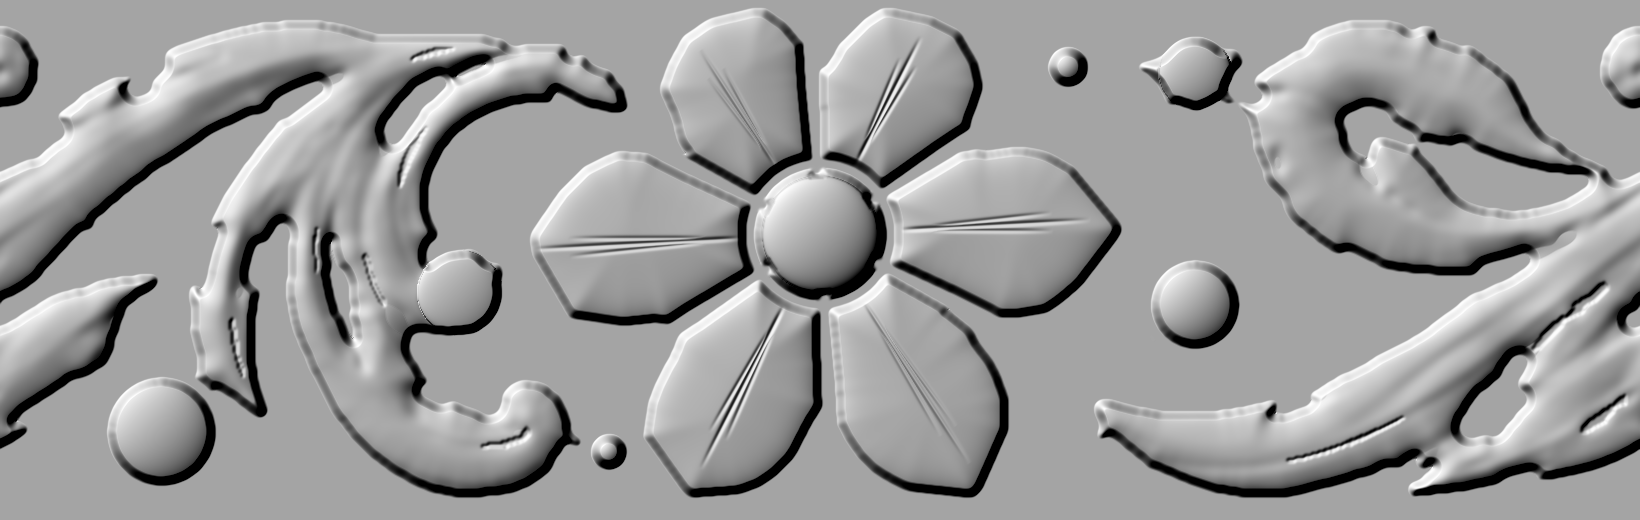
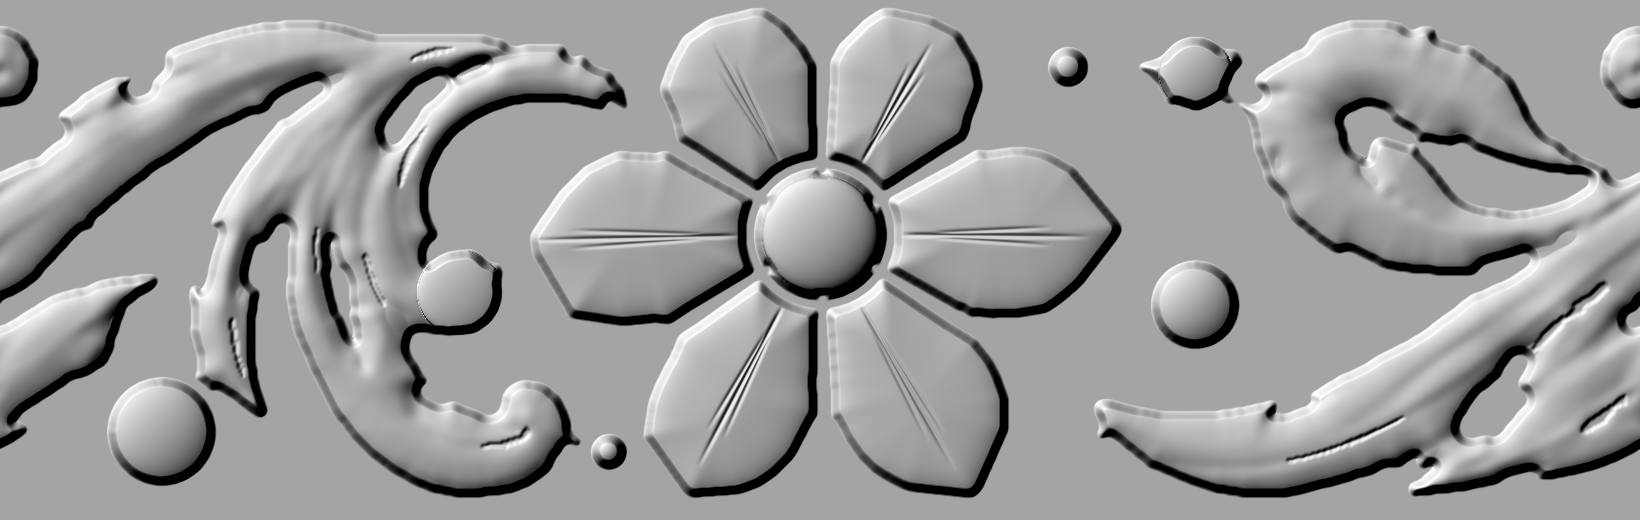
v2 step 13: petal gaps use MEASURED ref gap angles (31.8,88.7,146.8,210.8,271.0,329.3; ref flower is not 60-deg regular), axes = gap midpoints, per-petal sector half-width; gap re-cut radius GR1 300->250 (no slit in scroll tip); diff_v2.py HI 170->150 (ref top petals are duller mid-tone gold). Flowe

diff --git a/tools/v2/make_map_v2.py b/tools/v2/make_map_v2.py
@@ -35,7 +35,8 @@ opn = ndi.binary_opening(tri(~B), structure=disc)[:, TW:2 * TW]
 thin = ~B & ~opn
 B = B | (thin & (ndi.distance_transform_edt(~tri(B))[:, TW:2 * TW] <= E('GN', 2.5)))
 # D-v2 s74 petal slit fill: the mask subtracted dark ref slits that are really petal ribs (not petal gaps). Inside the flower disc, close B within +-FW deg of each petal axis (gaps lie midway between axes, untouched).
-FCX, FCY = 407 * TW / P, 116 * TW / P; FAX = [357, 57, 117, 177, 237, 297]; FW = E('FW', 14)
+FCX, FCY = 407 * TW / P, 116 * TW / P; # s80: MEASURED petal gap angles in the new ref (valley centroid of ref brightness about the flower centre, r80..180 median; deg, 0=+x, y down): the ref flower is NOT 60-deg regular (spacings 56.9..64). Axes = midpoints of neighbouring gaps, FHW = half sector widths.
+FGAP = [31.8, 88.7, 146.8, 210.8, 271.0, 329.3]; FAX = [(FGAP[i] + FGAP[(i + 1) % 6] + (360 if i == 5 else 0)) / 2 % 360 for i in range(6)]; FHW = [((FGAP[(i + 1) % 6] + (360 if i == 5 else 0)) - FGAP[i]) / 2 for i in range(6)]; FW = E('FW', 14)
 _a = (np.degrees(np.arctan2(np.mgrid[:TH, :TW][0] - FCY, np.mgrid[:TH, :TW][1] - FCX)) % 360); _r = np.hypot(np.mgrid[:TH, :TW][0] - FCY, np.mgrid[:TH, :TW][1] - FCX)
 _ax = np.zeros(B.shape, bool)
 for _t in FAX: _ax |= (np.abs((_a - _t + 180) % 360 - 180) <= FW)
@@ -47,8 +48,8 @@ RB, GAPH = E('RB', 74), E('GAPH', 1.5)
 GW0, GS, RF = E('GW0', 3.5), E('GS', .04), E('RF', 150)
 _dB = ndi.distance_transform_edt(~B); _sm = np.clip((_r - E('FR0', 110)) / (E('FR1', 210) - E('FR0', 110)), 0, 1); _e = E('FEXP', 14) * (1 - _sm * _sm * (3 - 2 * _sm))   # fill may grow a petal by <= _e px, fading out with r (no hard step)
 _gwr = GW0 + GS * (np.clip(_r, RB, RF) - RB)   # s77 gap half-width (px): narrow at the bead, widening outward (ref gaps are thin dark lines, petal sides straight along them)
-for _t in FAX:
-    _d = np.abs((_a - _t + 180) % 360 - 180); _sec = (_d <= 30) & (_r > RB) & (_r < 340) & (_r * np.sin(np.radians(np.clip(30 - _d, 0, 90))) >= _gwr)
+for _t, _hw in zip(FAX, FHW):
+    _d = np.abs((_a - _t + 180) % 360 - 180); _sec = (_d <= _hw) & (_r > RB) & (_r < 340) & (_r * np.sin(np.radians(np.clip(_hw - _d, 0, 90))) >= _gwr)
     _m = (B & _sec).astype(np.uint8); _n, _l, _st, _ = cv2.connectedComponentsWithStats(_m, connectivity=8)
     if _n < 2: continue
     _k = 1 + int(np.argmax(_st[1:, cv2.CC_STAT_AREA])); _pts = cv2.findNonZero((_l == _k).astype(np.uint8))
@@ -57,8 +58,8 @@ for _t in FAX:
 B = B & ~((_r < RB) & (_r > 40))
 _B2 = sg(sdf_of(B), E('BSG', 2.5)) > 0
 B = np.where((_r > 55) & (_r < 130), _B2, B)
-_gd = np.min([np.abs((_a - g + 180) % 360 - 180) for g in (27, 87, 147, 207, 267, 327)], axis=0)   # re-cut the 6 radial petal gaps (smoothing can close them)
-B = B & ~((_r * np.sin(np.radians(np.clip(_gd, 0, 90))) < _gwr) & (_r > RB) & (_r < E('GR1', 300)))
+_gd = np.min([np.abs((_a - g + 180) % 360 - 180) for g in FGAP], axis=0)   # re-cut the 6 radial petal gaps (smoothing can close them)
+B = B & ~((_r * np.sin(np.radians(np.clip(_gd, 0, 90))) < _gwr) & (_r > RB) & (_r < E('GR1', 250)))
 _l2, _n2 = ndi.label(B); _a2 = np.bincount(_l2.ravel(), minlength=_n2 + 1); B = np.isin(_l2, [i for i in range(1, _n2 + 1) if _a2[i] >= 150])   # drop slivers left by the gap cut
 # s79 local corner round: the top-right petal's rim meets its gap line in a tiny hook at map (820,72); SDF-smooth B in a soft window (NCX,NCY,NCR) so only that corner rounds
 _nx, _ny = np.meshgrid(np.arange(TW), np.arange(TH)); _nd = np.hypot(_nx - E('NCX', 821), _ny - E('NCY', 72)); _nw = 1 - np.clip((_nd - E('NCR', 14)) / 8, 0, 1)

diff --git a/tools/v2/diff_v2.py b/tools/v2/diff_v2.py
@@ -1,6 +1,6 @@
 """v2 diff vs the NEW reference picture (reference/band_face.png), independent of panel_mask.png / the map's own mask.
-usage: [T=.03 map footprint threshold] [HI=170 LO=85] python3 tools/v2/diff_v2.py [map=maps/v2/band_period_v2.png] [out=/mnt/user-data/outputs/v2_diff.png]
-Gold in the ref = brightness hysteresis on the ref's own pixels: seeds V>HI (bright gold; the pitted ground never gets that bright in a patch), grown into V>LO (shaded gold rims) but at most GROW px from a seed
+usage: [T=.03 map footprint threshold] [HI=150 LO=85] python3 tools/v2/diff_v2.py [map=maps/v2/band_period_v2.png] [out=/mnt/user-data/outputs/v2_diff.png]
+Gold in the ref = brightness hysteresis on the ref's own pixels: seeds V>HI 150 (170 missed the duller mid-tone gold of the top petals), grown into V>LO (shaded gold rims) but at most GROW px from a seed
 (blocks leaking into ground speckle), then 3x3 open, drop comps <150 px, fill holes <150 px. Tile = same cut as make_map_v2.py (ref panel rows 215..472, cols 70..2115 -> tile cols C0..C0+814,
 40 px seam cross-fade), resized to the map's 1640x520. Map footprint = H > T.
 Picture on the darkened ref: green = both, red = MISS (ref gold, map has none), blue = EXTRA (map has it, ref does not). Prints IoU and counts (all / flower disc r<340 / outside) and the mask's IoU vs maps/v2/panel_mask.png as a sanity check."""
@@ -9,7 +9,7 @@ from scipy import ndimage as ndi
 mp = sys.argv[1] if len(sys.argv) > 1 else 'maps/v2/band_period_v2.png'
 out = sys.argv[2] if len(sys.argv) > 2 else '/mnt/user-data/outputs/v2_diff.png'
 E = lambda k, d: float(os.environ.get(k, d))
-T, HI, LO, GROW = E('T', .03), E('HI', 170), E('LO', 85), int(E('GROW', 6))
+T, HI, LO, GROW = E('T', .03), E('HI', 150), E('LO', 85), int(E('GROW', 6))
 TW, TH, P, C0, SEAM = 1640, 520, 814, 608, 40
 ref = cv2.imread('reference/band_face.png')[215:473, 70:2116]
 V = cv2.GaussianBlur(cv2.cvtColor(ref, cv2.COLOR_BGR2GRAY).astype(np.float32), (0, 0), 1.0)
